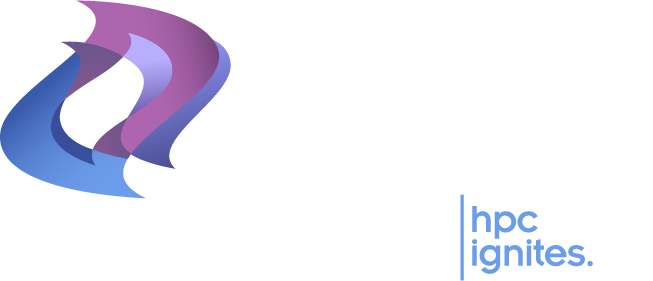
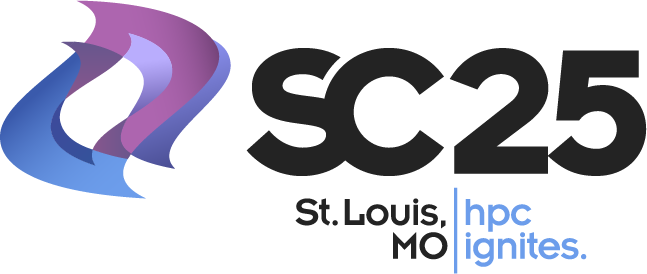
Minor edits

diff --git a/index.html b/index.html
@@ -56,6 +56,9 @@
       <p>
         I enjoy working on meaningful problems, learning from new ideas, and exploring creative solutions in computer science that can have a positive impact.
       </p>
+      <p></p>
+        <p>
+        Updated: October 2025
     </div>
   </div>
 </section>
@@ -85,10 +88,10 @@
 <div class="section-text">
 <h3>SC25 Poster Accepted</h3>
 <p>
-My master’s thesis poster (Quantum ML for EEG classification) has been accepted to <strong>Supercomputing 2025 (SC25)</strong>. I’ll be presenting results comparing variational quantum circuits to a tuned Random Forest baseline.
+My master’s thesis poster (Advacing EEG Signal Analysis wuth Quantum Machine Learning) has been accepted to <strong>Supercomputing 2025 (SC25) in November</strong>. I’ll be presenting results comparing variational quantum circuits to a tuned Random Forest baseline.
 </p>
 <p>
-<em>Preview:</em> See the small thumbnail above. I’ll share the full poster PDF after the conference.
+<em>Preview:</em> See the small thumbnail. I’ll share the full poster PDF after the conference.
 </p>
 </div>
 </div>
@@ -109,7 +112,7 @@ My master’s thesis poster (Quantum ML for EEG classification) has been accepte
 SHARD‑DB is a fast, reproducible workflow for building locus‑specific metabarcoding reference databases (e.g., COI, 12S, ITS). It replaces slow alignment‑based expansion with <strong>hash‑sketch retrieval</strong> (k‑mer hashing & locality‑sensitive hashing), then applies biological filters (primer anchoring, expected amplicon length) and taxonomy annotation.
 </p>
 <p>
-Current work benchmarks SHARD‑DB against CRUX on coverage, unique taxa, BLAST recall, and compute cost, targeting scalable reference DB builds for the Asia‑Pacific eDNA community.
+Current work benchmarks SHARD‑DB against CRUX on coverage, unique taxa, BLAST recall, and compute cost, targeting scalable reference DB builds.
 </p>
 <ul>
 
